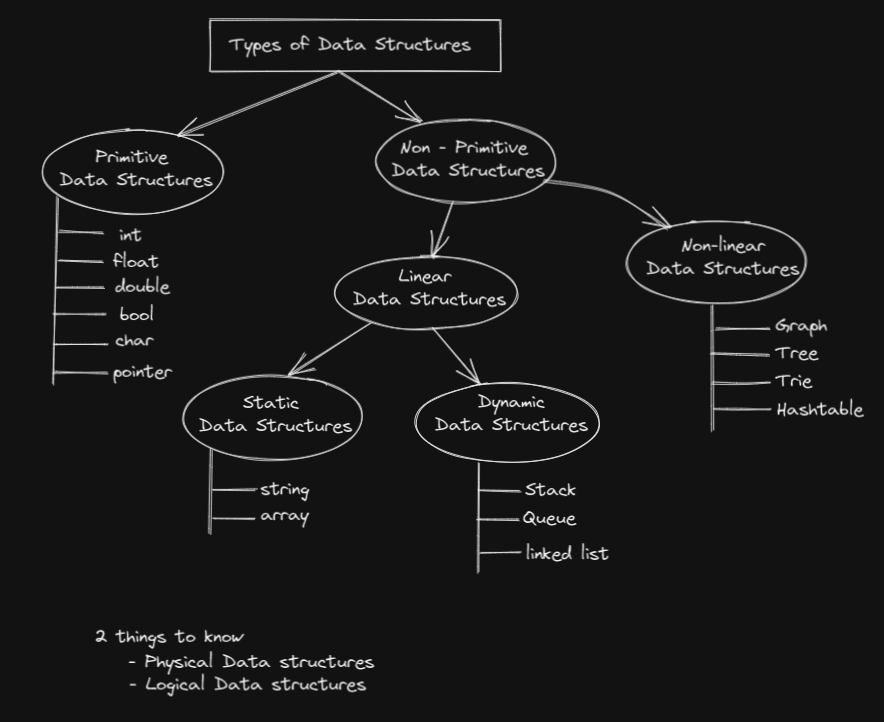
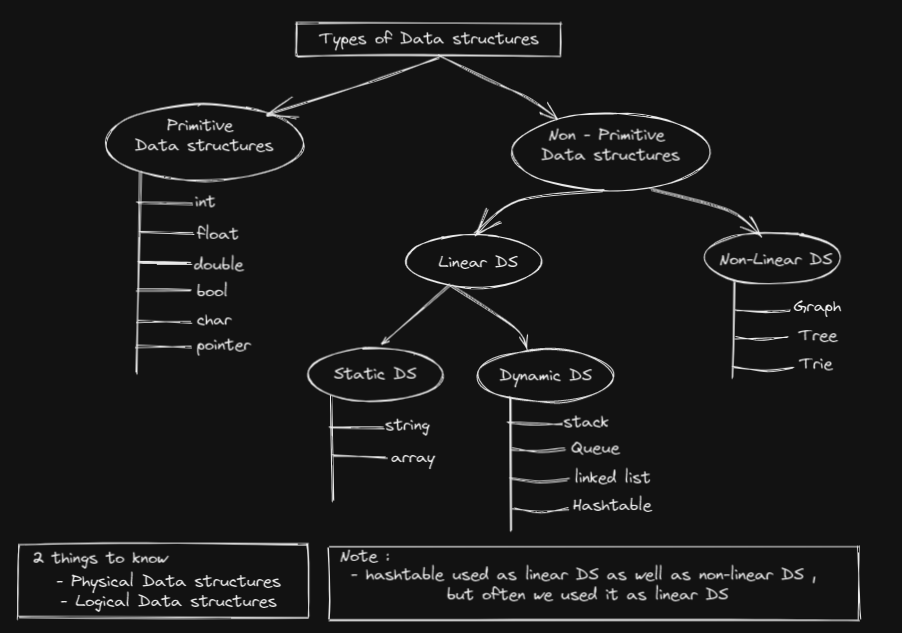
update

diff --git a/Python-DSA-notes/notes/04-types-of-data-structure.md b/Python-DSA-notes/notes/04-types-of-data-structure.md
@@ -113,5 +113,5 @@
 
 - static vs dynamic DS : https://www.geeksforgeeks.org/static-data-structure-vs-dynamic-data-structure/
 - Physical vs Logical Data Structure : https://dotnettutorials.net/lesson/physical-vs-logical-data-structure/
-- cheatsheet : https://excalidraw.com/#json=6Bkdq0m-bOzV7o6ecx8FU,IylSWiVY2sAUa3FDK73Yow
+- cheatsheet of types of Data structures : https://excalidraw.com/#json=6rZ3ooKOh11oR9S6R4s5t,X17rsCdFmnMIcWm_O2-XRQ
     ![types of DS](../notes-pics/04-lecture/mine-notes/lecture-4-0.png)

diff --git a/Python-DSA-notes/doubts.md b/Python-DSA-notes/doubts.md
@@ -1,0 +1,6 @@
+# Doubts 
+
+- in Big O Notation : Time & Space Complexity
+    - not able to understand how we got O(logn) , means not understand it's mathematical representation
+
+
